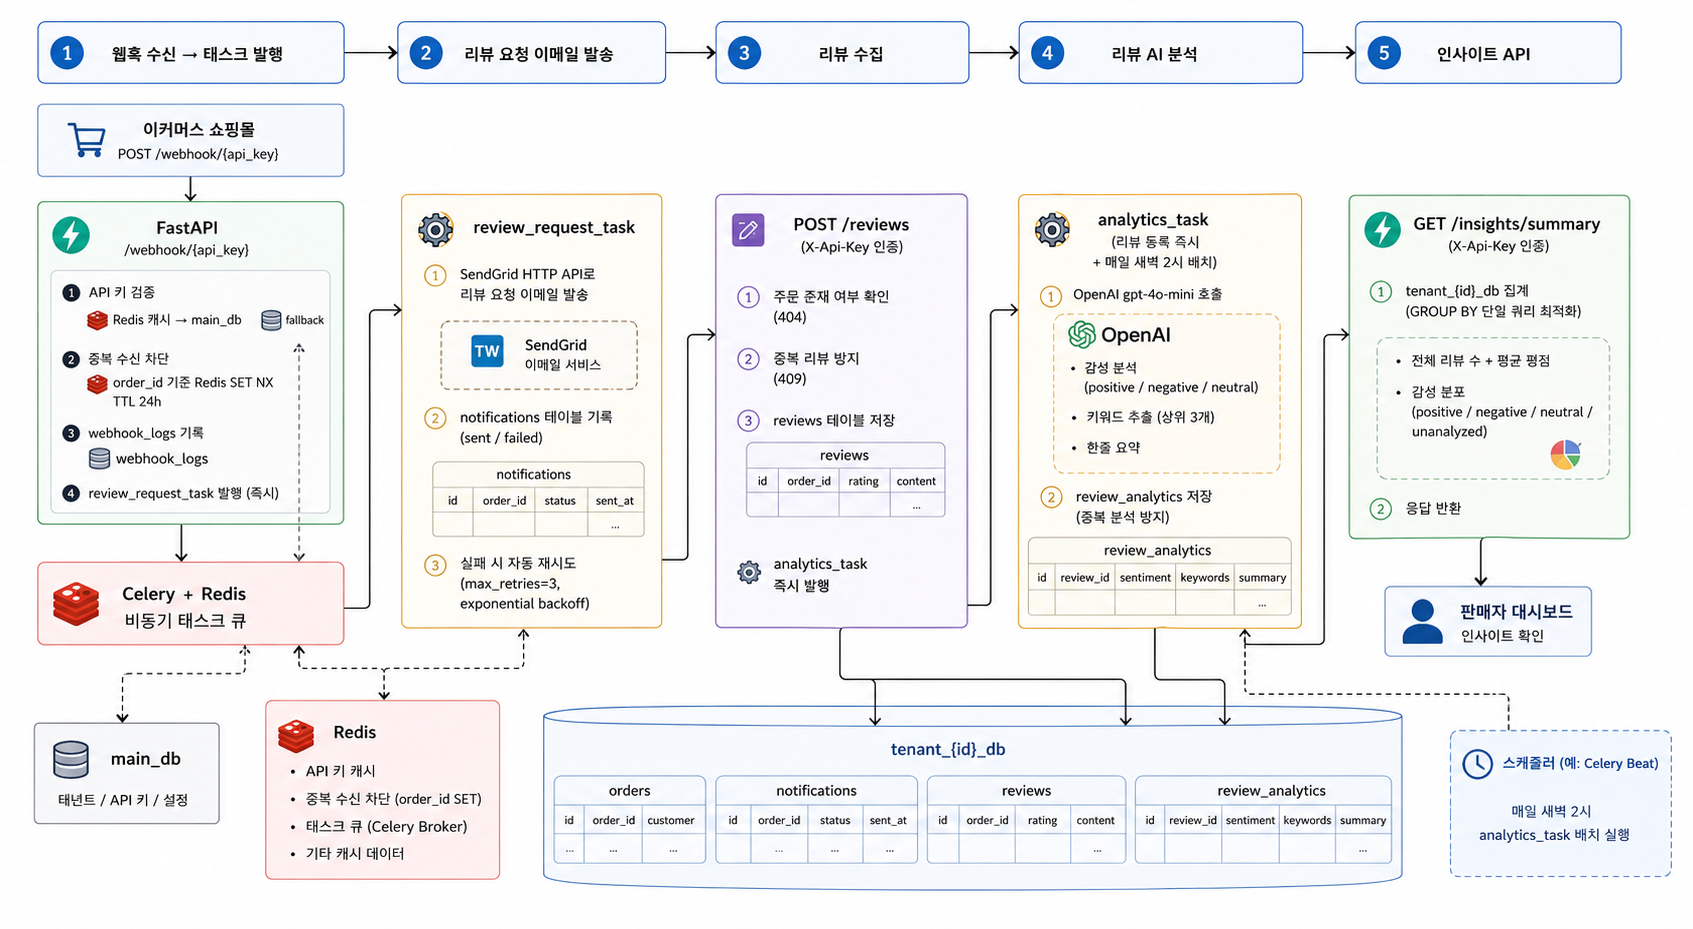
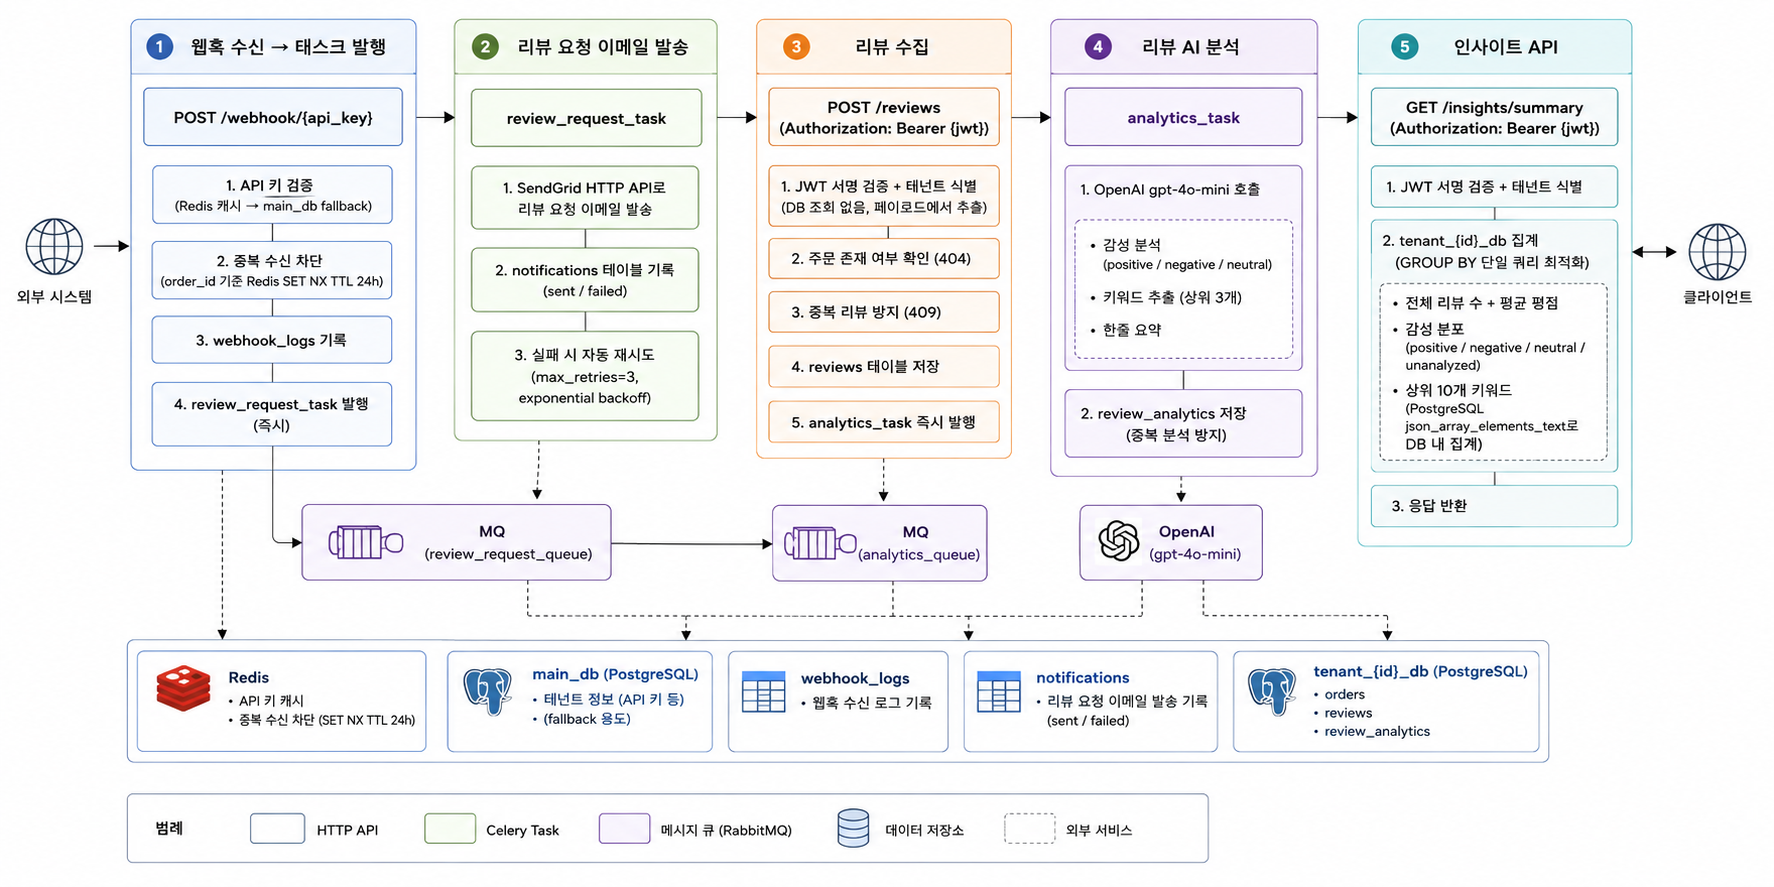
docs: flow 이미지 업데이트 및 README 뱃지 제거, 제목 수정

Changed region(s): [[0.0, 0.0, 0.9829, 0.9741]]

diff --git a/README.md b/README.md
@@ -1,12 +1,6 @@
-# ezyreview
+# EzyReview
 
 > 이커머스 쇼핑몰의 주문 완료 웹훅을 수신해 리뷰 요청 알림을 자동 발송하고, AI로 수집된 리뷰를 분석하는 **멀티테넌트 SaaS 백엔드**
-
-![Python](https://img.shields.io/badge/Python-3.11-blue)
-![FastAPI](https://img.shields.io/badge/FastAPI-0.115-green)
-![PostgreSQL](https://img.shields.io/badge/PostgreSQL-16-blue)
-![Celery](https://img.shields.io/badge/Celery-5.4-orange)
-![Railway](https://img.shields.io/badge/Deploy-Railway-purple)
 
 **API 문서 (라이브):** https://ezyreview-production.up.railway.app/docs
 